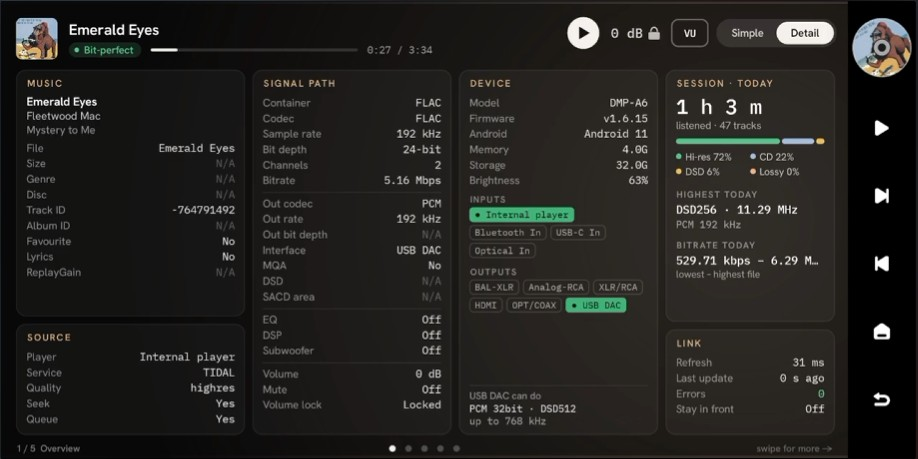
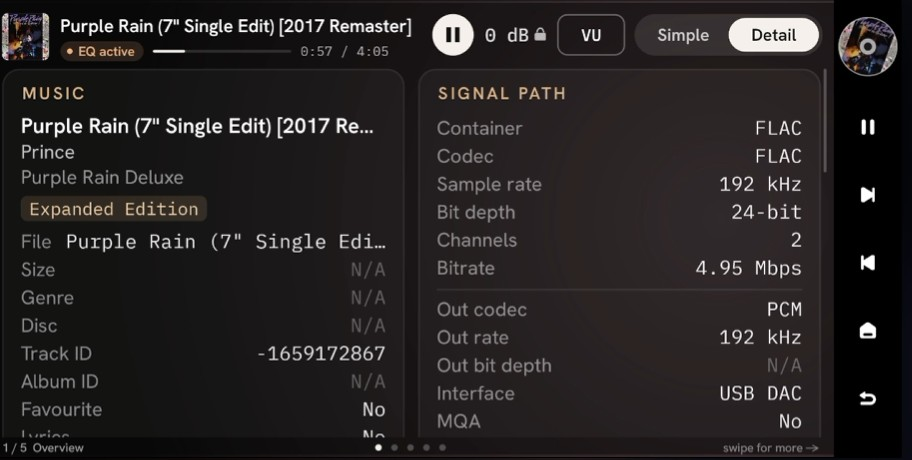
README: 1.0.2 screenshots (bigger text), Detail pages top + scrolled
Claude-Session: https://claude.ai/code/session_012mTvDEUSqrcsnv6ehQvGKv

diff --git a/README.md b/README.md
@@ -76,13 +76,15 @@ Tap **Detail**, then swipe left or right through five pages:
 
 Anything the source doesn't report shows as N/A instead of being hidden, so you can see what each source does and doesn't give you.
 
-| Overview | Track & file |
-|---|---|
-| ![Detail page 1](docs/screenshots/2-detail-1.jpg) | ![Detail page 2](docs/screenshots/2-detail-2.jpg) |
-| **Queue & playback** | **Device** |
-| ![Detail page 3](docs/screenshots/2-detail-3.jpg) | ![Detail page 4](docs/screenshots/2-detail-4.jpg) |
-| **Inputs, outputs & volume** | |
-| ![Detail page 5](docs/screenshots/2-detail-5.jpg) | |
+Each page scrolls. Top and scrolled views:
+
+| Page | Top | Scrolled |
+|---|---|---|
+| **1 Overview** | ![Detail page 1](docs/screenshots/2-detail-1.jpg) | ![Detail page 1, scrolled](docs/screenshots/2-detail-1b.jpg) |
+| **2 Track & file** | ![Detail page 2](docs/screenshots/2-detail-2.jpg) | |
+| **3 Queue & playback** | ![Detail page 3](docs/screenshots/2-detail-3.jpg) | ![Detail page 3, scrolled](docs/screenshots/2-detail-3b.jpg) |
+| **4 Device** | ![Detail page 4](docs/screenshots/2-detail-4.jpg) | ![Detail page 4, scrolled](docs/screenshots/2-detail-4b.jpg) |
+| **5 Inputs, outputs & volume** | ![Detail page 5](docs/screenshots/2-detail-5.jpg) | ![Detail page 5, scrolled](docs/screenshots/2-detail-5b.jpg) |
 
 ## How to use it
 
